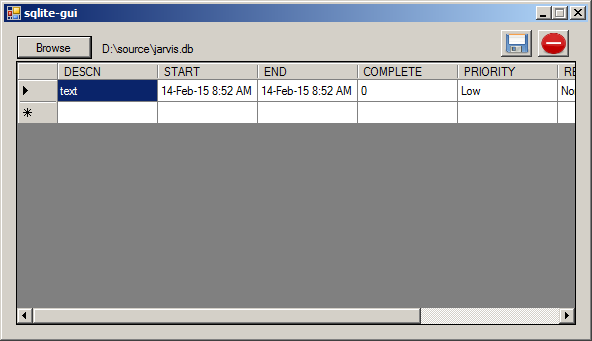
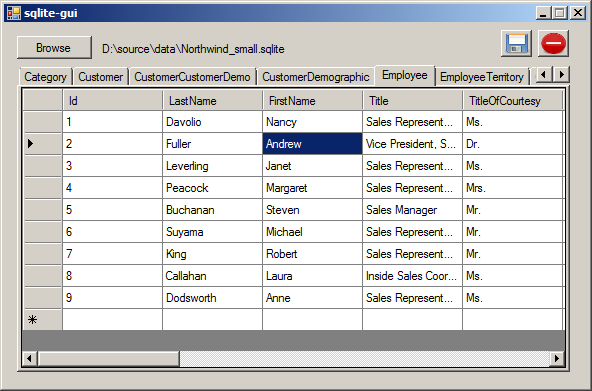
chore: added tabs for tables, updated readme

diff --git a/frmMain.cs b/frmMain.cs
@@ -8,67 +8,90 @@ using System.Text;
 using System.Windows.Forms;
 using System.Data.SQLite;
 using System.Collections;
+using System.Collections.Generic;
 
 namespace sqlite_gui
 {
     public partial class frmMain : Form
     {
         private SQLiteConnection conn = null;
-        private SQLiteDataAdapter adapter = null;
-        private DataSet dataset = null;
+        private DataSet dsAllTables = null;
+        private Dictionary<string, SQLiteDataAdapter> adapters = new System.Collections.Generic.Dictionary<string, SQLiteDataAdapter>();
+        private Dictionary<string, DataSet> datasets = new System.Collections.Generic.Dictionary<string, DataSet>();
 
         public frmMain()
         {
             InitializeComponent();
         }
 
-        private void setGrid(string tableName) {
-            adapter = new SQLiteDataAdapter("select * from " + tableName + " where 1=1;", conn);
-            SQLiteCommandBuilder builder = new SQLiteCommandBuilder(adapter);
-            dataset = new DataSet();
-            adapter.Fill(dataset);
+        private void setGridAll() {
+            tabControl1.TabPages.Clear();
+            foreach (DataRow row in dsAllTables.Tables[0].Rows) { 
+                string tableName = row[0].ToString();
+                tabControl1.TabPages.Add(tableName, tableName);
+                DataGridView dgv = new DataGridView();
+                dgv.Dock = DockStyle.Fill;
+                
+                //dgv.Anchor = AnchorStyles.Top | AnchorStyles.Right | AnchorStyles.Bottom | AnchorStyles.Left;
+                tabControl1.TabPages[tableName].Controls.Add(dgv);
+                //
+                SQLiteCommandBuilder builder;
+                try
+                {
+                    adapters[tableName] = new SQLiteDataAdapter("select * from `" + tableName + "` where 1=1;", conn);
+                    builder = new SQLiteCommandBuilder(adapters[tableName]);
+                    datasets[tableName] = new DataSet();
+                    adapters[tableName].Fill(datasets[tableName]);
+                }
+                catch (Exception ex) {
+                    MessageBox.Show("Error: " + ex.Message);
+                    continue;
+                }
+                //generate commands using command builder
+                try
+                {
+                    var uc = builder.GetUpdateCommand().CommandText;
+                    var ic = builder.GetInsertCommand().CommandText;
+                    var dc = builder.GetDeleteCommand().CommandText;
 
-            //generate commands using command builder
-            try
-            {
-                var uc = builder.GetUpdateCommand().CommandText;
-                var ic = builder.GetInsertCommand().CommandText;
-                var dc = builder.GetDeleteCommand().CommandText;
+                    //MessageBox.Show("auto generated update command: " + uc);
+                    //MessageBox.Show("auto generated insert command: " + ic);
+                    //MessageBox.Show("auto generated delete command: " + dc);
+                    dgv.ReadOnly = false;
+                }
+                catch
+                {
+                    MessageBox.Show(tableName + ": tables without primary key cannot be edited/deleted");
+                    dgv.ReadOnly = true;
+                }
 
-                //MessageBox.Show("auto generated update command: " + uc);
-                //MessageBox.Show("auto generated insert command: " + ic);
-                //MessageBox.Show("auto generated delete command: " + dc);
-                dgvMain.ReadOnly = false;
+                dgv.AutoGenerateColumns = true;
+                dgv.DataSource = datasets[tableName];
+                dgv.DataMember = datasets[tableName].Tables[0].TableName; //tableName;
             }
-            catch {
-                MessageBox.Show("Tables without primary key cannot be edited/deleted");
-                dgvMain.ReadOnly = true;
-            }
-
-            this.dgvMain.AutoGenerateColumns = true;
-            this.dgvMain.DataSource = dataset;
-            this.dgvMain.DataMember = dataset.Tables[0].TableName; //tableName;
         }
+
 
         private void openConn(string filename) {
             string connstr = @"Data Source=" + filename + @";Version=3;New=True;Compress=True";
             conn = new SQLiteConnection(connstr);
             SQLiteDataAdapter da = new SQLiteDataAdapter("", conn);
-            DataSet ds = new DataSet();
+            dsAllTables = new DataSet();
             da.SelectCommand.CommandText = "SELECT name FROM sqlite_master WHERE type = 'table' ORDER BY 1;";
-            da.Fill(ds);
+            da.Fill(dsAllTables);
 
-            ArrayList al = new ArrayList();
-            foreach (DataRow row in ds.Tables[0].Rows) {
-                //MessageBox.Show("TABLE: " + row[0]);
-                al.Add(row[0]);
-            }
-            frmChooseTable chooseTable = new frmChooseTable(al);
-            chooseTable.ShowDialog();
-            if (chooseTable.tableName != "") {
+            //ArrayList al = new ArrayList();
+            //foreach (DataRow row in dsAllTables.Tables[0].Rows) {
+            //    //MessageBox.Show("TABLE: " + row[0]);
+            //    al.Add(row[0]);
+            //}
+            //frmChooseTable chooseTable = new frmChooseTable(al);
+            //chooseTable.ShowDialog();
+            //if (chooseTable.tableName != "") {
                 //MessageBox.Show(chooseTable.tableName + " chosen");
-                setGrid(chooseTable.tableName);
-            }
+                //setGrid(chooseTable.tableName);
+            //}
+            setGridAll();
         }
 
         private void frmMain_Load(object sender, EventArgs e)
@@ -79,7 +102,7 @@ namespace sqlite_gui
         private void btnBrowse_Click(object sender, EventArgs e)
         {
             OpenFileDialog ofd = new OpenFileDialog();
-            ofd.Filter = "SQLITE Database Files|*.sqlite3;*.db;";
+            ofd.Filter = "SQLITE Database Files|*.db;*.sqlite3;*.sqlite";
             DialogResult dr = ofd.ShowDialog();
             if (dr == System.Windows.Forms.DialogResult.OK) {
                 var filename = ofd.FileName;
@@ -91,7 +114,18 @@ namespace sqlite_gui
 
         private void btnSave_Click(object sender, EventArgs e)
         {
-            adapter.Update(dataset);
+            if (tabControl1.SelectedTab == null) {
+                MessageBox.Show("No selected data tab.");
+                return;
+            }
+            string currentTab = tabControl1.SelectedTab.Name;
+            //MessageBox.Show("current tab: " + currentTab);
+            adapters[currentTab].Update(datasets[currentTab]);
+        }
+
+        private void btnDelete_Click(object sender, EventArgs e)
+        {
+            MessageBox.Show("Not implemented yet");
         }
     }
 }

diff --git a/frmMain.Designer.cs b/frmMain.Designer.cs
@@ -29,25 +29,12 @@
         private void InitializeComponent()
         {
             System.ComponentModel.ComponentResourceManager resources = new System.ComponentModel.ComponentResourceManager(typeof(frmMain));
-            this.dgvMain = new System.Windows.Forms.DataGridView();
             this.btnBrowse = new System.Windows.Forms.Button();
             this.lblPath = new System.Windows.Forms.Label();
             this.btnSave = new System.Windows.Forms.Button();
             this.btnDelete = new System.Windows.Forms.Button();
-            ((System.ComponentModel.ISupportInitialize)(this.dgvMain)).BeginInit();
+            this.tabControl1 = new System.Windows.Forms.TabControl();
             this.SuspendLayout();
-            // 
-            // dgvMain
-            // 
-            this.dgvMain.AllowUserToOrderColumns = true;
-            this.dgvMain.Anchor = ((System.Windows.Forms.AnchorStyles)((((System.Windows.Forms.AnchorStyles.Top | System.Windows.Forms.AnchorStyles.Bottom)
-                        | System.Windows.Forms.AnchorStyles.Left)
-                        | System.Windows.Forms.AnchorStyles.Right)));
-            this.dgvMain.ColumnHeadersHeightSizeMode = System.Windows.Forms.DataGridViewColumnHeadersHeightSizeMode.AutoSize;
-            this.dgvMain.Location = new System.Drawing.Point(12, 38);
-            this.dgvMain.Name = "dgvMain";
-            this.dgvMain.Size = new System.Drawing.Size(560, 264);
-            this.dgvMain.TabIndex = 0;
             // 
             // btnBrowse
             // 
@@ -90,23 +77,34 @@
             this.btnDelete.Size = new System.Drawing.Size(31, 27);
             this.btnDelete.TabIndex = 4;
             this.btnDelete.UseVisualStyleBackColor = true;
+            this.btnDelete.Click += new System.EventHandler(this.btnDelete_Click);
+            // 
+            // tabControl1
+            // 
+            this.tabControl1.Anchor = ((System.Windows.Forms.AnchorStyles)((((System.Windows.Forms.AnchorStyles.Top | System.Windows.Forms.AnchorStyles.Bottom)
+                        | System.Windows.Forms.AnchorStyles.Left)
+                        | System.Windows.Forms.AnchorStyles.Right)));
+            this.tabControl1.Location = new System.Drawing.Point(13, 42);
+            this.tabControl1.Name = "tabControl1";
+            this.tabControl1.SelectedIndex = 0;
+            this.tabControl1.Size = new System.Drawing.Size(553, 307);
+            this.tabControl1.TabIndex = 5;
             // 
             // frmMain
             // 
             this.AutoScaleDimensions = new System.Drawing.SizeF(6F, 13F);
             this.AutoScaleMode = System.Windows.Forms.AutoScaleMode.Font;
-            this.ClientSize = new System.Drawing.Size(584, 314);
+            this.ClientSize = new System.Drawing.Size(584, 364);
+            this.Controls.Add(this.tabControl1);
             this.Controls.Add(this.btnDelete);
             this.Controls.Add(this.btnSave);
             this.Controls.Add(this.lblPath);
             this.Controls.Add(this.btnBrowse);
-            this.Controls.Add(this.dgvMain);
             this.MaximizeBox = false;
             this.Name = "frmMain";
             this.StartPosition = System.Windows.Forms.FormStartPosition.CenterScreen;
             this.Text = "sqlite-gui";
             this.Load += new System.EventHandler(this.frmMain_Load);
-            ((System.ComponentModel.ISupportInitialize)(this.dgvMain)).EndInit();
             this.ResumeLayout(false);
             this.PerformLayout();
 
@@ -114,11 +112,11 @@
 
         #endregion
 
-        private System.Windows.Forms.DataGridView dgvMain;
         private System.Windows.Forms.Button btnBrowse;
         private System.Windows.Forms.Label lblPath;
         private System.Windows.Forms.Button btnSave;
         private System.Windows.Forms.Button btnDelete;
+        private System.Windows.Forms.TabControl tabControl1;
     }
 }
 

diff --git a/README.md b/README.md
@@ -5,4 +5,12 @@ The only dependency is SQLITE .NET interop DLLs. You can install it from [https:
 
 ![screenshot](/screenshot.png)
 
-**sqlite-gui in action**
+*sqlite-gui in action*
+
+## Installation
+
+You can get the latest build from here.
+
+## Notes
+
+- You can download the Northwind sqlite database for testing from [here](https://github.com/jpwhite3/northwind-SQLite3/blob/master/Northwind_small.sqlite).
